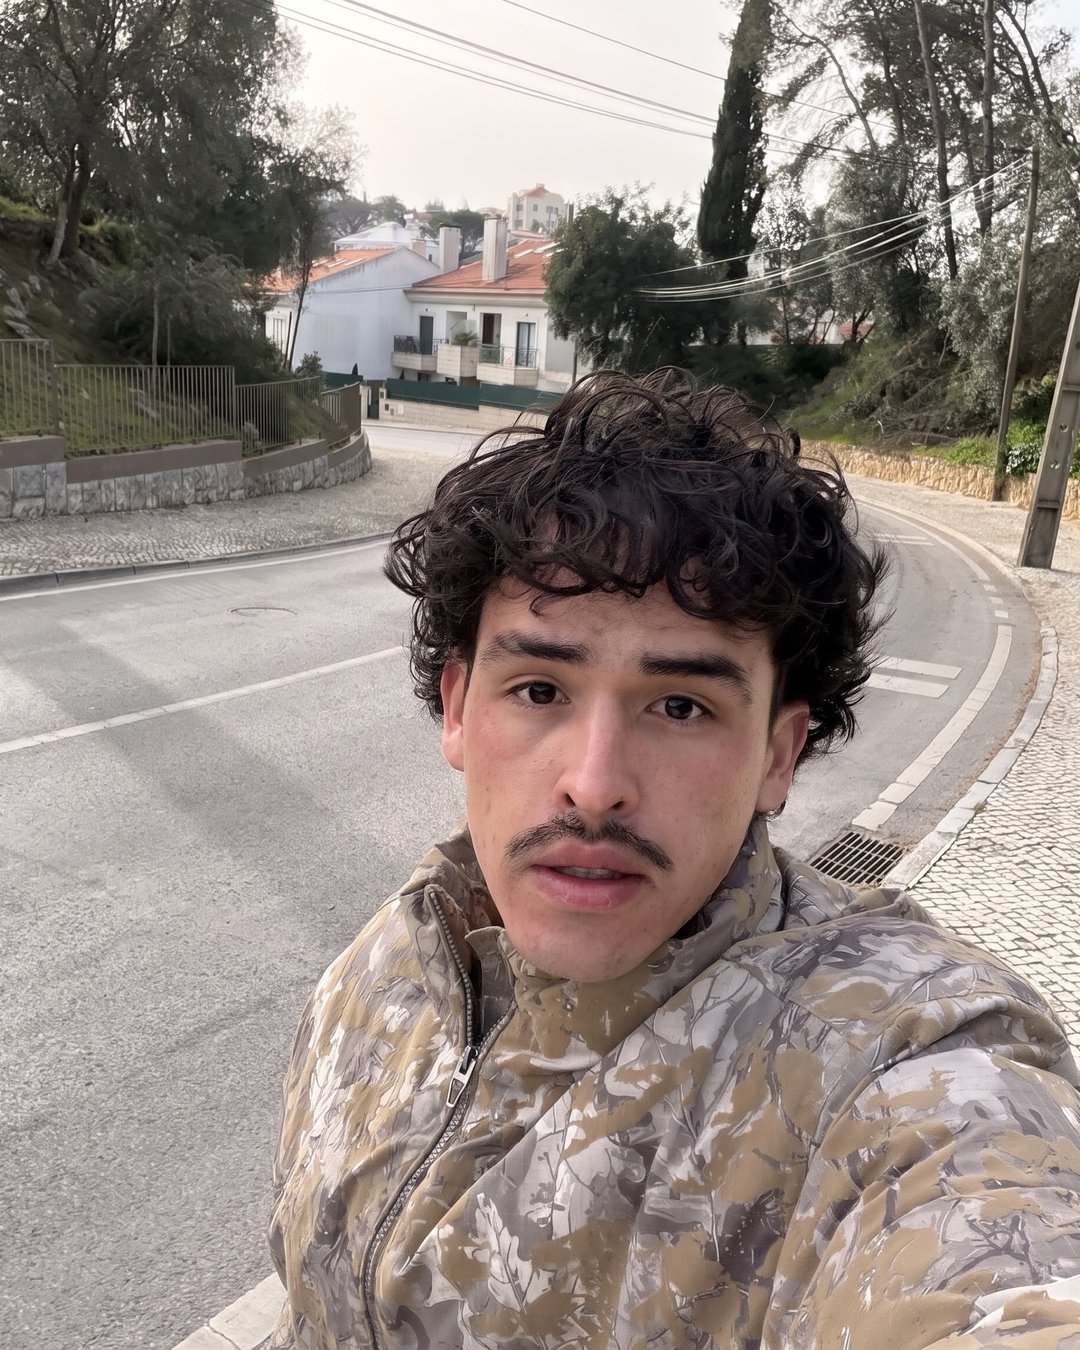
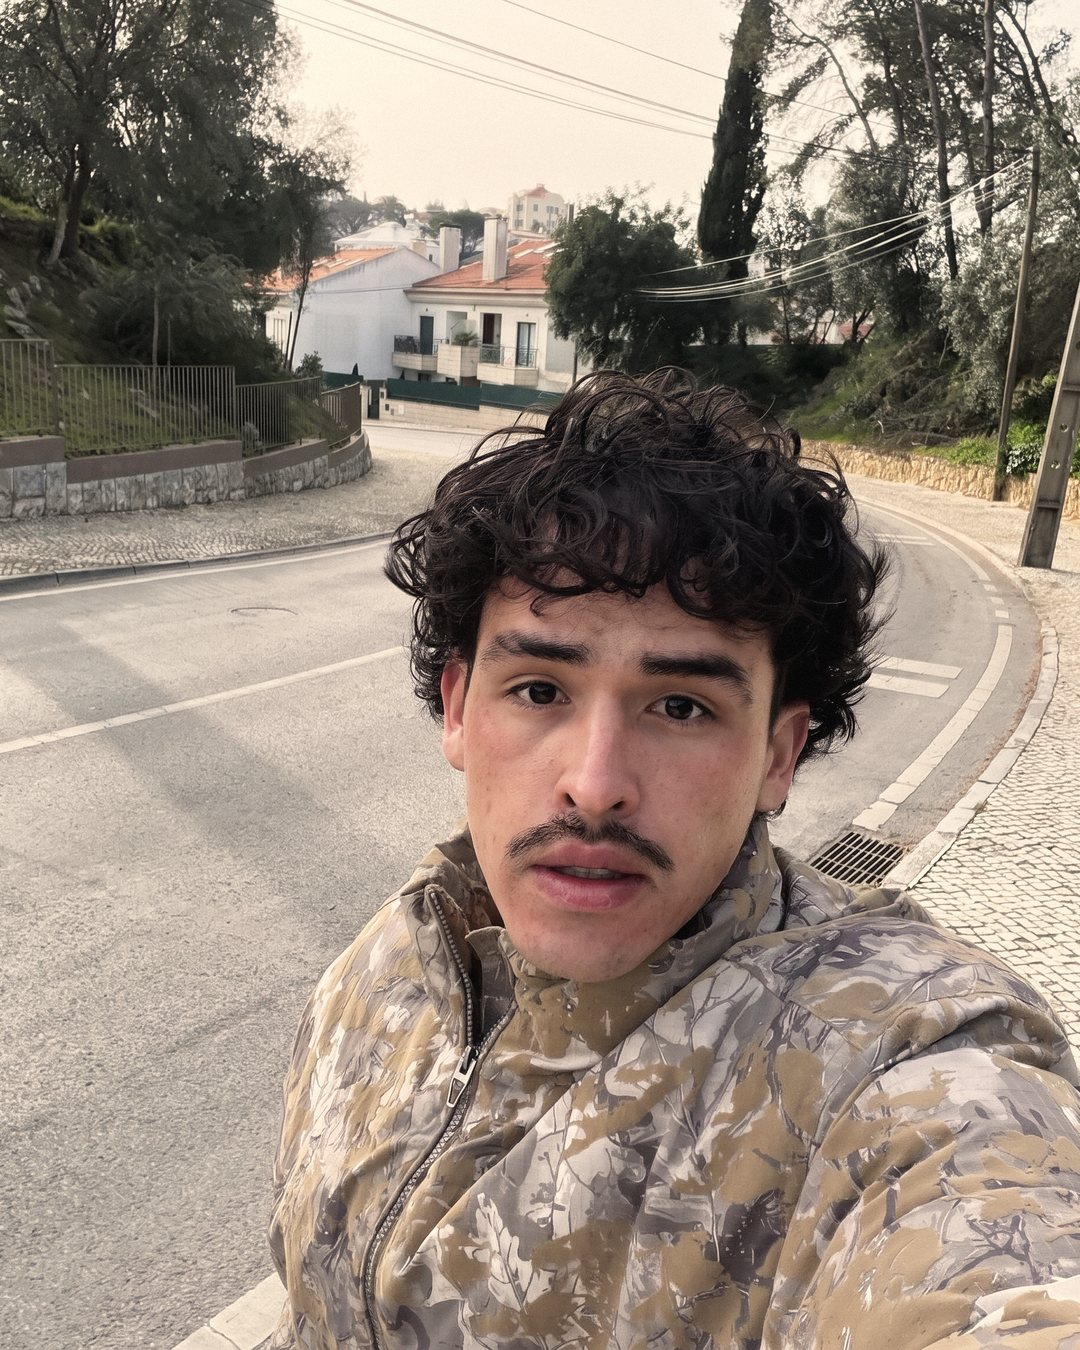
História: correção de cor quente na foto de Cascais e legenda verdadeira, foto inteira em 4:5
Claude-Session: https://claude.ai/code/session_01H9RPN1CBtaHMsUDF5qg26C

diff --git a/assets/ondao.css b/assets/ondao.css
@@ -579,6 +579,7 @@ body:has(.fixa-geral) footer{padding-bottom:110px}
 
 .foto-cap video{display:block;width:100%;height:auto;border-radius:16px}
 .foto-real{margin:16px 0 0;max-width:360px}
+.capitulo .foto-cap.foto-real{aspect-ratio:auto;overflow:visible;border-radius:0}
 .foto-real img{width:100%;height:auto;aspect-ratio:4/5;object-fit:cover;border-radius:16px}
 .foto-real figcaption{margin-top:8px;font-size:.85rem;color:var(--cinza);font-style:italic}
 .news-foto{margin:22px 0 0;max-width:420px}
